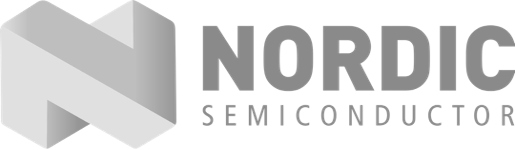
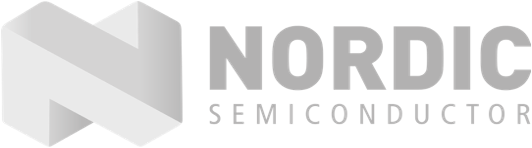
v0.0.2

diff --git a/pages/index.js b/pages/index.js
@@ -2,27 +2,14 @@ import Head from "next/head";
 import Hero from "../components/hero";
 import Navbar from "../components/navbar";
 import SectionTitle from "../components/sectionTitle";
-
-import { benefitOne, benefitTwo } from "../components/data";
+import { benefitOne, benefitTwo } from "../components/Projects";
 import Video from "../components/video";
 import Benefits from "../components/benefits";
 import Footer from "../components/footer";
 import Testimonials from "../components/testimonials";
 import Cta from "../components/cta";
-import Faq from "../components/faq";
+import InfoS from "../components/InfoS";
 import PopupWidget from "../components/popupWidget";
-
-//import dynamic from "next/dynamic";
-
-// const Video = dynamic(() => import("../components/video"));
-
-// const Benefits = dynamic(() => import("../components/benefits"));
-// const Footer = dynamic(() => import("../components/footer"));
-// const Testimonials = dynamic(() => import("../components/testimonials"));
-// const Cta = dynamic(() => import("../components/cta"));
-// const Faq = dynamic(() => import("../components/faq"));
-
-// const PopupWidget = dynamic(() => import("../components/popupWidget"));
 
 export default function Home() {
   return (
@@ -45,7 +32,7 @@ export default function Home() {
       We have also partnered with industry experts so no piece of your project is overlooked. 
       Our partners work together to ensure every element of your project flows together smoothly.  
       </SectionTitle>
-      <Faq />
+      <InfoS />
       <Benefits data={benefitOne} />
       <Benefits imgPos="right" data={benefitTwo} />
       <SectionTitle

diff --git a/components/hero.js b/components/hero.js
@@ -83,8 +83,8 @@ function AvnetLogo() {
     <div className="">
             <Image
               src={AvnetImg}
-              width="150"
-              height="70"
+              width="140"
+              height="30"
             />
           </div>
   );
@@ -95,8 +95,8 @@ function EyeqLogo() {
     <div className="">
             <Image
               src={EyeqImg}
-              width="140"
-              height="70"
+              width="130"
+              height="50"
             />
           </div>
   );
@@ -107,8 +107,8 @@ function NordicLogo() {
     <div className="">
             <Image
               src={NordicImg}
-              width="150"
-              height="70"
+              width="180"
+              height="50"
             />
           </div>
   );
@@ -118,8 +118,8 @@ function PaniLogo() {
     <div className="">
             <Image
               src={PaniImg}
-              width="110"
-              height="40"
+              width="150"
+              height="45"
             />
           </div>
   );
@@ -129,8 +129,8 @@ function SentryLogo() {
     <div className="">
             <Image
               src={SentryImg} 
-              width="230"
-              height="70"
+              width="195"
+              height="45"
             />
           </div>
   );
@@ -140,8 +140,8 @@ function TeleLogo() {
     <div className="">
             <Image
               src={TeleImg}
-              width="250"
-              height="30"
+              width="350"
+              height="40"
             />
           </div>
   );

diff --git a/components/Projects.js b/components/Projects.js
@@ -7,13 +7,13 @@ import {
   SunIcon,
 } from "@heroicons/react/outline";
 
-import benefitOneImg from "../public/img/benefit-one.png";
-import benefitTwoImg from "../public/img/benefit-two.png";
+import CLImg from "../public/img/ChipLink.png";
+import MNIImg from "../public/img/MNI.png";
 
 const benefitOne = {
-  title: "xx",
+  title: "Chip Link",
   desc: "xx.",
-  image: benefitOneImg,
+  image: CLImg,
   bullets: [
     {
       title: "=D",
@@ -34,9 +34,9 @@ const benefitOne = {
 };
 
 const benefitTwo = {
-  title: "Services",
-  desc: "xxx.",
-  image: benefitTwoImg,
+  title: "Music not impossible",
+  desc: "Creating Music Equality for All.",
+  image: MNIImg,
   bullets: [
     {
       title: "xx",

diff --git a/components/testimonials.js b/components/testimonials.js
@@ -128,7 +128,7 @@ function Mark(props) {
   return (
     <>
       {" "}
-      <mark className="text-indigo-800 bg-indigo-100 rounded-md ring-indigo-100 ring-4 dark:ring-indigo-900 dark:bg-indigo-900 dark:text-indigo-200">
+      <mark className="text-[#FF8360] bg-indigo-100 rounded-md ring-indigo-100 ring-4 dark:ring-indigo-900 dark:bg-indigo-900 dark:text-indigo-200">
         {props.children}
       </mark>{" "}
     </>

diff --git a/components/cta.js b/components/cta.js
@@ -15,7 +15,7 @@ import Container from "./container";
         </div>
         <div className="flex-shrink-0 w-full text-center lg:w-auto">
           <a
-            href="https://github.com/web3templates"
+            href=""
             target="_blank"
             rel="noopener"
             className="inline-block py-3 mx-auto text-lg font-medium text-center text-indigo-600 bg-white rounded-md px-7 lg:px-10 lg:py-5 ">

diff --git a/components/sectionTitle.js b/components/sectionTitle.js
@@ -8,7 +8,7 @@ export default function SectionTitle(props) {
         props.align === "left" ? "" : "items-center justify-center text-center"
       }`}>
       {props.pretitle && (
-        <div className="text-sm font-bold tracking-wider text-indigo-600 uppercase">
+        <div className="text-sm font-bold tracking-wider text-[#FF8360] uppercase">
           {props.pretitle}
         </div>
       )}
